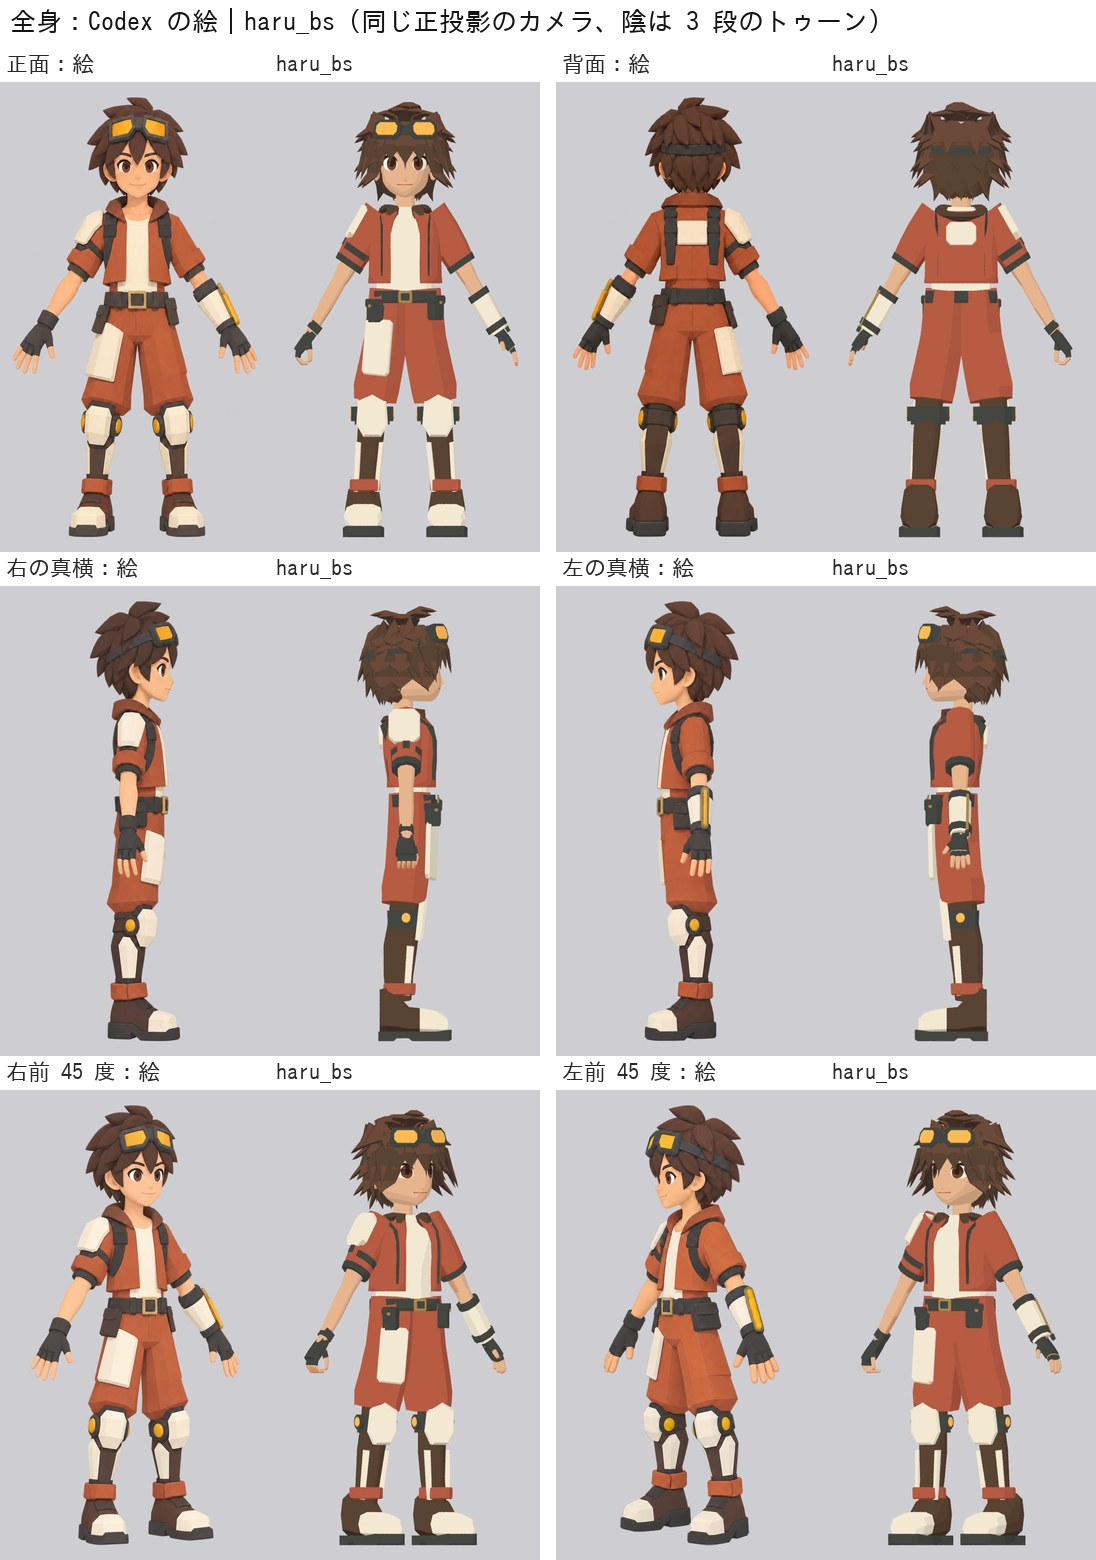
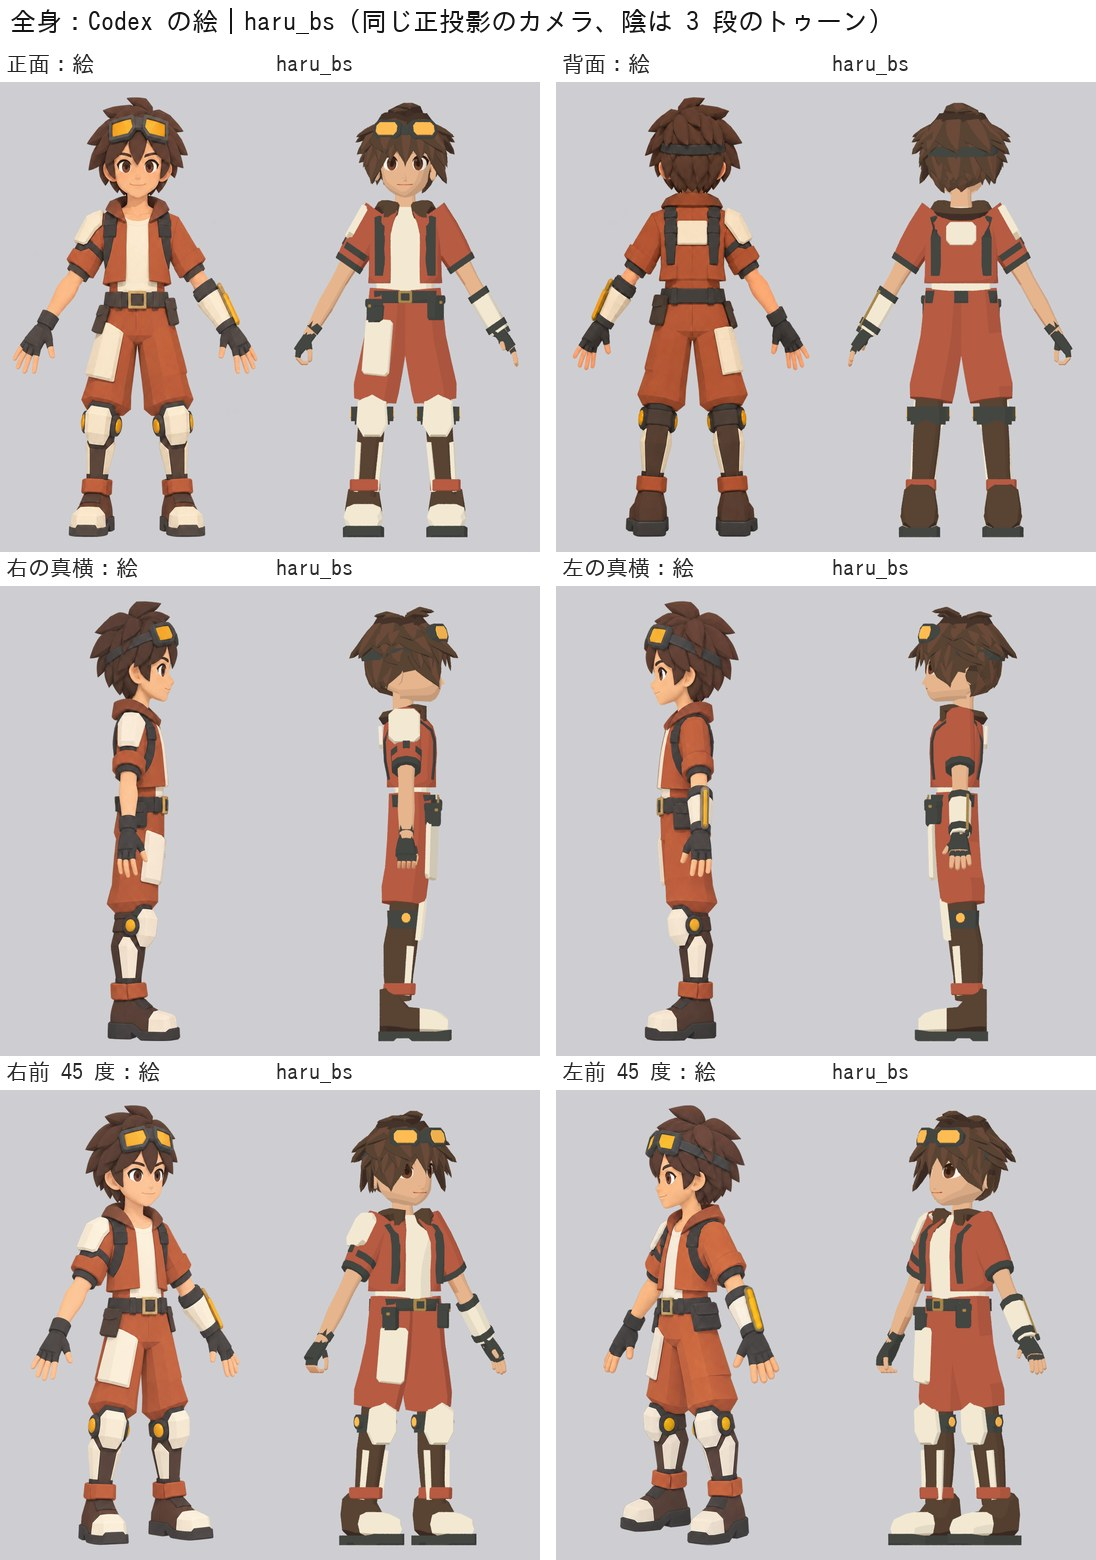
Trial haru_bs: compare loop passes 2 and 3 (hair leaves, straps, face)
Hair rebuilt as surface-following leaves with painted facets, side
locks slimmed so the ears read, shoulder straps placed on the jacket
surface front and back, rounder lower face, thicker arms and hands.

Claude-Session: https://claude.ai/code/session_01Bcwddx3BN325aEnzr3cFiU

diff --git a/tools/blender/trial_bs/parts_hair.py b/tools/blender/trial_bs/parts_hair.py
@@ -11,7 +11,8 @@ from mathutils import Vector, Matrix
 from parts_body import head_point
 from meshkit import Part, tube, loft, frame_from_dir
 
-CROWN = Vector((0.0, -0.015, 1.478))    # 頭頂のつむじ（真上の絵で、房が放射状に出る中心。後ろ寄り）
+CROWN = Vector((0.0, -0.015, 1.478))
+HEAD_C = Vector((0.0, -0.015, 1.330))    # 頭頂のつむじ（真上の絵で、房が放射状に出る中心。後ろ寄り）
 
 
 def cap():
@@ -51,9 +52,12 @@ def tuft(root, dirs, length, width, thick=0.016, n=6, twist_up=None):
         t = i / (m - 1)
         wv = width * max(0.06, math.sin(math.pi * (0.25 + 0.75 * t))) ** 0.9
         radii.append((wv, max(0.003, thick * (1 - 0.75 * t))))
-    up = twist_up if twist_up is not None else Vector((0, 0, 1))
-    tip = pts[-1] + (pts[-1] - pts[-2]).normalized() * seg * 0.45
-    return tube(pts, radii, n=n, col='umber', up=up, sq=1.35, tips=(None, tip))
+    # 房の幅は頭の面に沿わせる：up は頭の中心からの向き（芯の向きとほぼ直交するのでねじれない）
+    up = (Vector(root) - HEAD_C).normalized()
+    tip = pts[-1] + (pts[-1] - pts[-2]).normalized() * seg * 0.30
+    # 根元は暗く、外の真ん中は明るく（重なった房の境目が見える。stylized-style：陰は描く）
+    col = lambda i, j: 'umber_dk' if (i == 0 or j >= 3) else ('umber_lt' if j == 1 else 'umber')
+    return tube(pts, radii, n=n, col=col, up=up, sq=1.35, tips=(None, tip))
 
 
 def _o(a):
@@ -81,24 +85,76 @@ def _down_tangent(a, z0, zc=1.335, R=0.145):
     return (_o(a) * math.sin(phi) + Vector((0, 0, -math.cos(phi)))).normalized()
 
 
+def leaf(a0, z0, z1, da, width, out0, out1, thick=0.032, steps=5):
+    """頭の面に沿って流れる葉の房：角度 a0・高さ z0 の根元から、角度を da だけ回しながら高さ z1 まで。
+    面からの浮き out0 → out1（先が外へはねる）。幅は頭の面に沿い、厚みは外向き"""
+    pts = []
+    for k in range(steps + 1):
+        t = k / steps
+        pts.append(head_point(a0 + da * t, z0 + (z1 - z0) * t, out0 + (out1 - out0) * t ** 1.7))
+    m = len(pts)
+    radii = []
+    for k in range(m):
+        t = k / (m - 1)
+        wv = width * max(0.06, math.sin(math.pi * (0.22 + 0.78 * t))) ** 0.8
+        radii.append((wv, max(0.004, thick * (1 - 0.7 * t))))
+    up = (pts[0] - HEAD_C).normalized()
+    tip = pts[-1] + (pts[-1] - pts[-2]).normalized() * 0.018
+    def col(i, j):
+        # 断面の 6 面：外の真ん中（j=1）は明るい段、外の両わき（0, 2）は中の段、頭を向く側（3〜5）と根元は暗い段。
+        # 房の縁に暗い線ができ、重なった葉が 1 枚ずつ読める（絵の房の稜線と影）
+        if i == 0 or j >= 3:
+            return 'umber_dk'
+        return 'umber_lt' if j == 1 else 'umber'
+    return tube(pts, radii, n=6, col=col, up=up, sq=1.35, tips=(None, tip))
+
+
 def hair_regions():
     """地域ごとの房の Part を返す：{骨の名前: Part}。
     groom-flow-regions の順（生え際・前髪 → 頭頂 → 横 → 後ろ・えり足）に、流れの向き・房の数・長さを決める。
-    絵の髪は太い葉の形の房が瓦のように重なる：根元は頭の丸みに沿って下へ流れ、先が外へはねる。
-    頭頂のつむじ（後ろ寄り）からは上・後ろへ立つ房が数本"""
+    絵の髪は大きい葉の形の房が瓦のように重なる。真上の絵ではつむじから風車のように放射し、頭の丸みに沿って
+    流れて先が外へはねる。房の数を絞って大きく（Clumps：束で読ませる、細い毛を足さない）"""
     R = {}
 
     def add(bone, part):
         R.setdefault(bone, Part()).extend(part)
 
-    # 頭頂：上・後ろへ立つ房（頭の上の輪郭のとがり）
-    for a_deg, ln, up_k, wd in ((170, 0.125, 0.8, 0.072), (-145, 0.115, 0.7, 0.068), (135, 0.110, 0.6, 0.066),
-                                (10, 0.135, 1.30, 0.064), (-25, 0.115, 1.0, 0.060), (35, 0.110, 0.9, 0.060), (90, 0.110, 0.55, 0.064), (-95, 0.110, 0.55, 0.064)):
+    # 1 段目（頭頂の風車）：つむじから放射、先は横・後ろへはねる
+    for k in range(9):
+        a_deg = -160 + 40 * k
+        if abs(a_deg) < 25:
+            continue                        # 正面はゴーグルと前髪
+        a = math.radians(a_deg)
+        reg = 'hair.top' if abs(a_deg) > 60 else 'hair.front'
+        add(reg, leaf(a, 1.478, 1.365, math.radians(16), 0.082, 0.010, 0.085, 0.040))
+    # 頭頂の立つ房（上の輪郭のとがり）
+    for a_deg, ln, up_k, wd in ((10, 0.130, 1.30, 0.066), (-25, 0.110, 1.0, 0.060), (170, 0.115, 0.8, 0.070), (-140, 0.100, 0.7, 0.064)):
         a = math.radians(a_deg)
         o = _o(a)
         root = CROWN + o * 0.015 + Vector((0, 0, -0.016))
         dirs = [o * 0.45 + Vector((0, 0, up_k)), o + Vector((0, 0, up_k * 0.45)), o * 1.0 + Vector((0, 0, -0.10))]
-        add('hair.top', tuft(root, dirs, ln, wd, 0.030, twist_up=Vector((0, 0, 1))))
+        add('hair.top', tuft(root, dirs, ln, wd, 0.030))
+    # 2 段目：耳の上・後頭部。耳のあたり（|a| 70〜115）は短く
+    for k in range(11):
+        a_deg = -180 + 18 + 360 * k / 11
+        a_deg = ((a_deg + 180) % 360) - 180
+        if abs(a_deg) < 48:
+            continue
+        a = math.radians(a_deg)
+        near_ear = 68 < abs(a_deg) < 118
+        z1 = 1.335 if near_ear else 1.265
+        add(_region(a_deg, 1.40), leaf(a, 1.420, z1, math.radians(8), 0.080, 0.008, 0.070 if not abs(a_deg) > 130 else 0.040, 0.038))
+    # 3 段目：後ろ・えり足（下へ短く、えりに沿う）
+    for k in range(7):
+        a_deg = 180 - 30 * k + (0 if k % 2 else 0)
+        a_deg = ((a_deg + 180) % 360) - 180
+        if abs(a_deg) < 115:
+            continue
+        a = math.radians(a_deg)
+        add('hair.nape', leaf(a, 1.330, 1.228, 0.0, 0.070, 0.006, 0.026, 0.032))
+    for a_deg in (-125, 125, -150, 150, 180):
+        a = math.radians(a_deg)
+        add(_region(a_deg, 1.36), leaf(a + math.radians(12), 1.370, 1.262, 0.0, 0.074, 0.010, 0.036, 0.034))
     # 横へ張り出す房（正面の絵で、ゴーグルの高さの髪の幅 ±0.185 m）
     for side in (1, -1):
         for a_deg, z0, ln, dn in ((78, 1.440, 0.105, 0.30), (100, 1.430, 0.105, 0.42), (120, 1.425, 0.100, 0.50)):
@@ -106,32 +162,7 @@ def hair_regions():
             o = _o(a)
             root = head_point(a, z0, 0.004)
             dirs = [(o + Vector((0, 0, 0.10))), (o + Vector((0, 0, -dn))), (o + Vector((0, 0, -dn * 1.4)))]
-            add('hair.side.' + ('L' if side > 0 else 'R'), tuft(root, dirs, ln, 0.064, 0.028, twist_up=o))
-    # 重なる段：根元の高さ・数・ずらし（度）・長さ・幅・先のはね・前を空ける角度（前髪の所）
-    rows = [
-        (1.452, 9, 20, 0.130, 0.068, 0.70, 34),
-        (1.412, 12, 0, 0.140, 0.070, 0.75, 42),
-        (1.368, 14, 13, 0.140, 0.068, 0.90, 54),
-        (1.322, 12, 0, 0.122, 0.064, 0.60, 100),
-        (1.280, 10, 16, 0.085, 0.060, 0.30, 112),
-        (1.245, 8, 0, 0.065, 0.056, 0.10, 122),
-    ]
-    for z0, cnt, off, ln, wd, flick, skip in rows:
-        for j in range(cnt):
-            a_deg = -180 + off + 360 * j / cnt
-            a_deg = ((a_deg + 180) % 360) - 180
-            if abs(a_deg) < skip:
-                continue
-            a = math.radians(a_deg)
-            o = _o(a)
-            root = head_point(a, z0, 0.004)
-            t0 = _down_tangent(a, z0)
-            t1 = _down_tangent(a, z0 - ln * 0.5)
-            d0 = (t0 + o * 0.25).normalized()
-            fk = flick * (0.35 if abs(a_deg) > 125 else 1.0)  # 後ろは外へはねすぎない（真横の絵の後頭部の輪郭）
-            d1 = (t1 + o * fk * 0.6).normalized()
-            d2 = (t1 + o * fk * 1.4).normalized()        # 先が外へはねる
-            add(_region(a_deg, z0), tuft(root, [d0, d1, d2], ln, wd, 0.030, twist_up=o))
+            add('hair.side.' + ('L' if side > 0 else 'R'), tuft(root, dirs, ln, 0.066, 0.028))
     # 前髪：額の上（ゴーグルの下）から前・下へ。真ん中が目の間まで下りる
     for a_deg, z0, ln, wd in ((0, 1.440, 0.170, 0.056), (-19, 1.436, 0.145, 0.054), (19, 1.436, 0.145, 0.054),
                               (-37, 1.425, 0.135, 0.052), (37, 1.425, 0.135, 0.052)):
@@ -142,10 +173,10 @@ def hair_regions():
         add('hair.front', tuft(root, dirs, ln, wd, 0.024, twist_up=o))
     # 顔の横の房（耳の前へ下りる）
     for side in (1, -1):
-        for a_deg, z0, ln in ((56, 1.405, 0.170), (72, 1.395, 0.160)):
+        for a_deg, z0, ln in ((58, 1.405, 0.160), (70, 1.400, 0.140)):
             a = math.radians(a_deg * side)
             o = _o(a)
             root = head_point(a, z0, 0.004)
             dirs = [(o * 0.9 + Vector((0, 0, -0.2))), (o * 0.35 + Vector((0, 0, -1.0))), (o * 0.45 + Vector((0, 0, -1.0)))]
-            add('hair.side.' + ('L' if side > 0 else 'R'), tuft(root, dirs, ln, 0.052, 0.024, twist_up=o))
+            add('hair.side.' + ('L' if side > 0 else 'R'), tuft(root, dirs, ln * 0.85, 0.040, 0.022, twist_up=o))
     return R

diff --git a/tools/blender/trial_bs/parts_body.py b/tools/blender/trial_bs/parts_body.py
@@ -100,7 +100,7 @@ def neck():
     a = J['neck'] + Vector((0, 0.0, -0.04))
     b = J['head'] + Vector((0, 0.01, 0.06))
     path = [a, a.lerp(b, 0.5), b]
-    return tube(path, [0.040, 0.037, 0.036], n=12, col='skin', start=math.pi / 2)
+    return tube(path, [0.050, 0.040, 0.037], n=12, col='skin', start=math.pi / 2)
 
 
 # ---------------------------------------------------------------- 腕（袖の中から手首まで）
@@ -110,7 +110,7 @@ def arm(side):
     d1 = (el - sh).normalized()
     d2 = (wr - el).normalized()
     path = [sh + d1 * 0.02, sh + d1 * 0.12, el - d1 * 0.03, el, el + d2 * 0.03, el + d2 * 0.10, wr - d2 * 0.02, wr + d2 * 0.012]
-    radii = [(0.044, 0.044), (0.039, 0.040), (0.033, 0.033), (0.030, 0.029), (0.030, 0.029), (0.031, 0.028), (0.025, 0.020), (0.024, 0.019)]
+    radii = [(0.044, 0.044), (0.039, 0.040), (0.033, 0.033), (0.032, 0.031), (0.033, 0.031), (0.035, 0.032), (0.028, 0.023), (0.027, 0.022)]
     return tube(path, radii, n=10, col='skin', start=-math.pi / 2)
 
 
@@ -138,12 +138,12 @@ def open_hand(side, glove=True):
 
     # 手のひら（手首 → 指の付け根）
     rings = []
-    for x, wd, th in ((-0.005, 0.026, 0.016), (0.030, 0.033, 0.017), (0.068, 0.037, 0.014)):
+    for x, wd, th in ((-0.005, 0.029, 0.018), (0.030, 0.037, 0.019), (0.068, 0.041, 0.016)):
         c = P(x, 0.004, 0)
         rings.append(ring(c, t, n, wd, th, 8, 0.0, 3.0))
     palm = loft(rings, 'skin')
     # 指：人差し指（親指の側）→ 小指
-    fingers = [(0.025, 0.060, 0.0094, -7), (0.008, 0.066, 0.0097, -1), (-0.009, 0.062, 0.0094, 5), (-0.025, 0.050, 0.0086, 12)]
+    fingers = [(0.028, 0.062, 0.0102, -7), (0.009, 0.068, 0.0105, -1), (-0.010, 0.064, 0.0102, 5), (-0.028, 0.052, 0.0094, 12)]
     for y0, ln, r, spread in fingers:
         base = P(0.062, y0, 0.0)
         sp = math.radians(spread)
@@ -171,7 +171,7 @@ def open_hand(side, glove=True):
     if glove:
         # 手袋の手のひらと手首のカフ
         rings = []
-        for x, wd, th in ((-0.040, 0.030, 0.026), (-0.012, 0.031, 0.026), (-0.004, 0.030, 0.020), (0.030, 0.0365, 0.021), (0.066, 0.0405, 0.018)):
+        for x, wd, th in ((-0.040, 0.033, 0.029), (-0.012, 0.034, 0.029), (-0.004, 0.033, 0.023), (0.030, 0.0405, 0.023), (0.066, 0.0445, 0.020)):
             rings.append(ring(P(x, 0.004, 0), t, n, wd, th, 8, 0.0, 3.0))
         glv.extend(loft(rings, 'graphite'))
     return skin, glv

diff --git a/tools/blender/trial_bs/parts_hard.py b/tools/blender/trial_bs/parts_hard.py
@@ -48,24 +48,30 @@ def goggle_strap():
 
 
 # ---------------------------------------------------------------- 外装フレーム：胴の核（Frame_core）
+def _torso_at_x(x, z, grow, back):
+    """胴の面で、横の位置 x にある前（back=False）か後ろ（back=True）の点"""
+    best = None
+    for k in range(181):
+        a = (math.pi / 2 + math.pi / 2 * k / 180) if back else (math.pi / 2 * k / 180)
+        a = a if x >= 0 else -a
+        q = torso_point(a, z, grow)
+        if best is None or abs(q.x - x) < abs(best.x - x):
+            best = q
+    return best
+
+
 def shoulder_straps():
-    """2 本の暗い肩ひも：前の裾から肩を越えて背中の裾へ（背中でも平行、X にしない）"""
+    """2 本の暗い肩ひも：前の裾から肩を越えて背中の裾へ（背中でも平行、X にしない）。上着の面の外に乗せる"""
     p = Part()
     for side in (1, -1):
-        x = side * 0.092
-        path = []
-        for z in (0.925, 0.99, 1.06, 1.10):
-            q = torso_point(math.atan2(x, 0.12) * 1.0, z, 0.018)
-            path.append(Vector((x, q.y, z)))
-        # 肩の上
-        path.append(Vector((side * 0.100, -0.050, 1.142)))
-        path.append(Vector((side * 0.100, 0.010, 1.150)))
-        path.append(Vector((side * 0.098, 0.060, 1.110)))
-        for z in (1.06, 0.99, 0.925):
-            q = torso_point(math.pi - math.atan2(x, 0.06), z, 0.018)
-            path.append(Vector((x, q.y, z)))
-        rr = [(0.019, 0.005)] * len(path)
-        p.extend(tube(path, rr, n=4, col='graphite', up=Vector((side, 0, 0))))
+        x = side * 0.100
+        path = [_torso_at_x(x, z, 0.024, False) for z in (0.925, 0.99, 1.06, 1.10)]
+        path.append(Vector((side * 0.102, -0.058, 1.146)))
+        path.append(Vector((side * 0.104, -0.012, 1.160)))
+        path.append(Vector((side * 0.102, 0.034, 1.128)))
+        path += [_torso_at_x(x, z, 0.024, True) for z in (1.06, 0.99, 0.925)]
+        rr = [(0.020, 0.0055)] * len(path)
+        p.extend(tube(path, rr, n=4, col='graphite', up=Vector((0, 0, 1))))   # 幅は横（x）へ
     return p
 
 

diff --git a/tools/blender/trial_bs/parts_cloth.py b/tools/blender/trial_bs/parts_cloth.py
@@ -75,8 +75,8 @@ def collar():
     for k in range(N + 1):
         a = -math.pi * 0.80 + 1.60 * math.pi * k / N    # 前の左 → 後ろ → 前の右
         a = a + math.pi
-        z = 1.150 + 0.018 * math.cos(a - math.pi) * -1
-        r = 0.082
+        z = 1.160 + 0.018 * math.cos(a - math.pi) * -1
+        r = 0.090
         x = r * math.sin(a)
         y = -0.025 - 0.075 * math.cos(a) * (0.9 if math.cos(a) > 0 else 1.0)
         path.append(Vector((x, y, z)))
@@ -84,7 +84,7 @@ def collar():
     l0 = path[0] + Vector((0.008, -0.015, -0.07))
     l1 = path[-1] + Vector((-0.008, -0.015, -0.07))
     path = [l0] + path + [l1]
-    radii = [(0.020, 0.010)] + [(0.026, 0.020)] * (len(path) - 2) + [(0.020, 0.010)]
+    radii = [(0.024, 0.012)] + [(0.034, 0.026)] * (len(path) - 2) + [(0.024, 0.012)]
     return tube(path, radii, n=6, col='umber', up=Vector((0, 0, 1)))
 
 

diff --git a/tools/blender/trial_bs/render_compare.py b/tools/blender/trial_bs/render_compare.py
@@ -34,7 +34,7 @@ VIEWS = {
     'side_right': dict(img='haru_3d_side_right.png', rz=-90, rx=90, full=True, cx=(1024 - P.SIDE_CX) * P.PX),
     'side_left': dict(img='haru_3d_side_left.png', rz=90, rx=90, full=True, cx=(1024 - (2048 - P.SIDE_CX)) * P.PX),
     'three_quarter': dict(img='haru_3d_three_quarter.png', rz=-30, rx=90, full=True, cx=None),
-    'front_left45': dict(img='haru_3d_front_left45.png', rz=30, rx=90, full=True, cx=None),
+    'front_left45': dict(img='haru_3d_front_left45.png', rz=45, rx=90, full=True, cx=None),
     'head_side_right': dict(img='haru_head_side_right.png', rz=-90, rx=90, full=False),
     'head_back': dict(img='haru_head_back.png', rz=180, rx=90, full=False),
     'head_front_right45': dict(img='haru_head_front_right45.png', rz=-45, rx=90, full=False),

diff --git a/tools/blender/trial_bs/textures.py b/tools/blender/trial_bs/textures.py
@@ -114,9 +114,8 @@ def raster(objs, size, path):
             c = mw @ poly.center
             dark = n.z < -0.55
             if hair:
-                dark = n.dot((c - HEAD_C).normalized()) < 0.2
-                if not dark and n.z > 0.30:
-                    key = 'umber_lt'
+                # 房の内側（頭を向く面）だけ暗く。根元・先の段は房の作りで塗ってある
+                dark = False
             if dark and key in DARK:
                 key = DARK[key]
             col = P.RGB[key]

diff --git a/tools/blender/trial_bs/build_haru_bs.py b/tools/blender/trial_bs/build_haru_bs.py
@@ -108,7 +108,7 @@ def build(with_tex=True, with_glb=True):
     mk(H.cap(), 'SM_Hair_HaruBS_Cap', c_hair, 'cloth', angle=50)
     for bone, part in H.hair_regions().items():
         nm = 'SM_Hair_HaruBS_' + bone.replace('hair.', '').replace('.', '_').title().replace('_L', '_L').replace('_R', '_R')
-        ob = mk(part, nm, c_hair, 'cloth', angle=35)
+        ob = mk(part, nm, c_hair, 'cloth', angle=55)
         ob['sway_bone'] = bone
 
     # ---- 服
